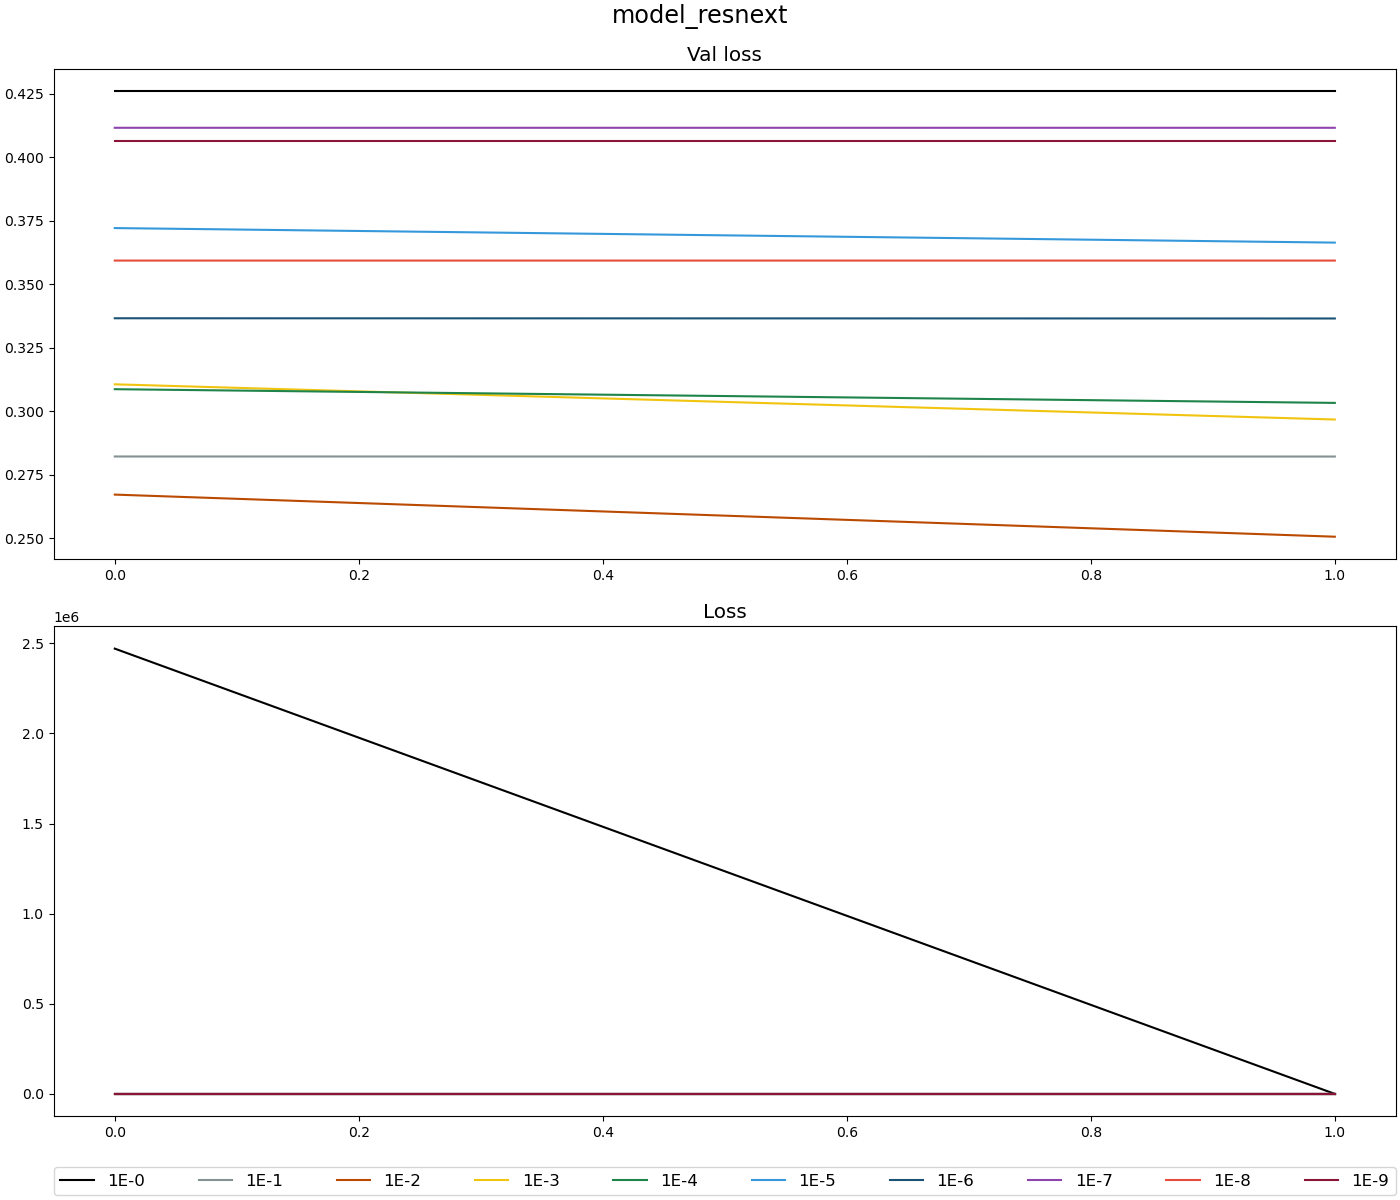
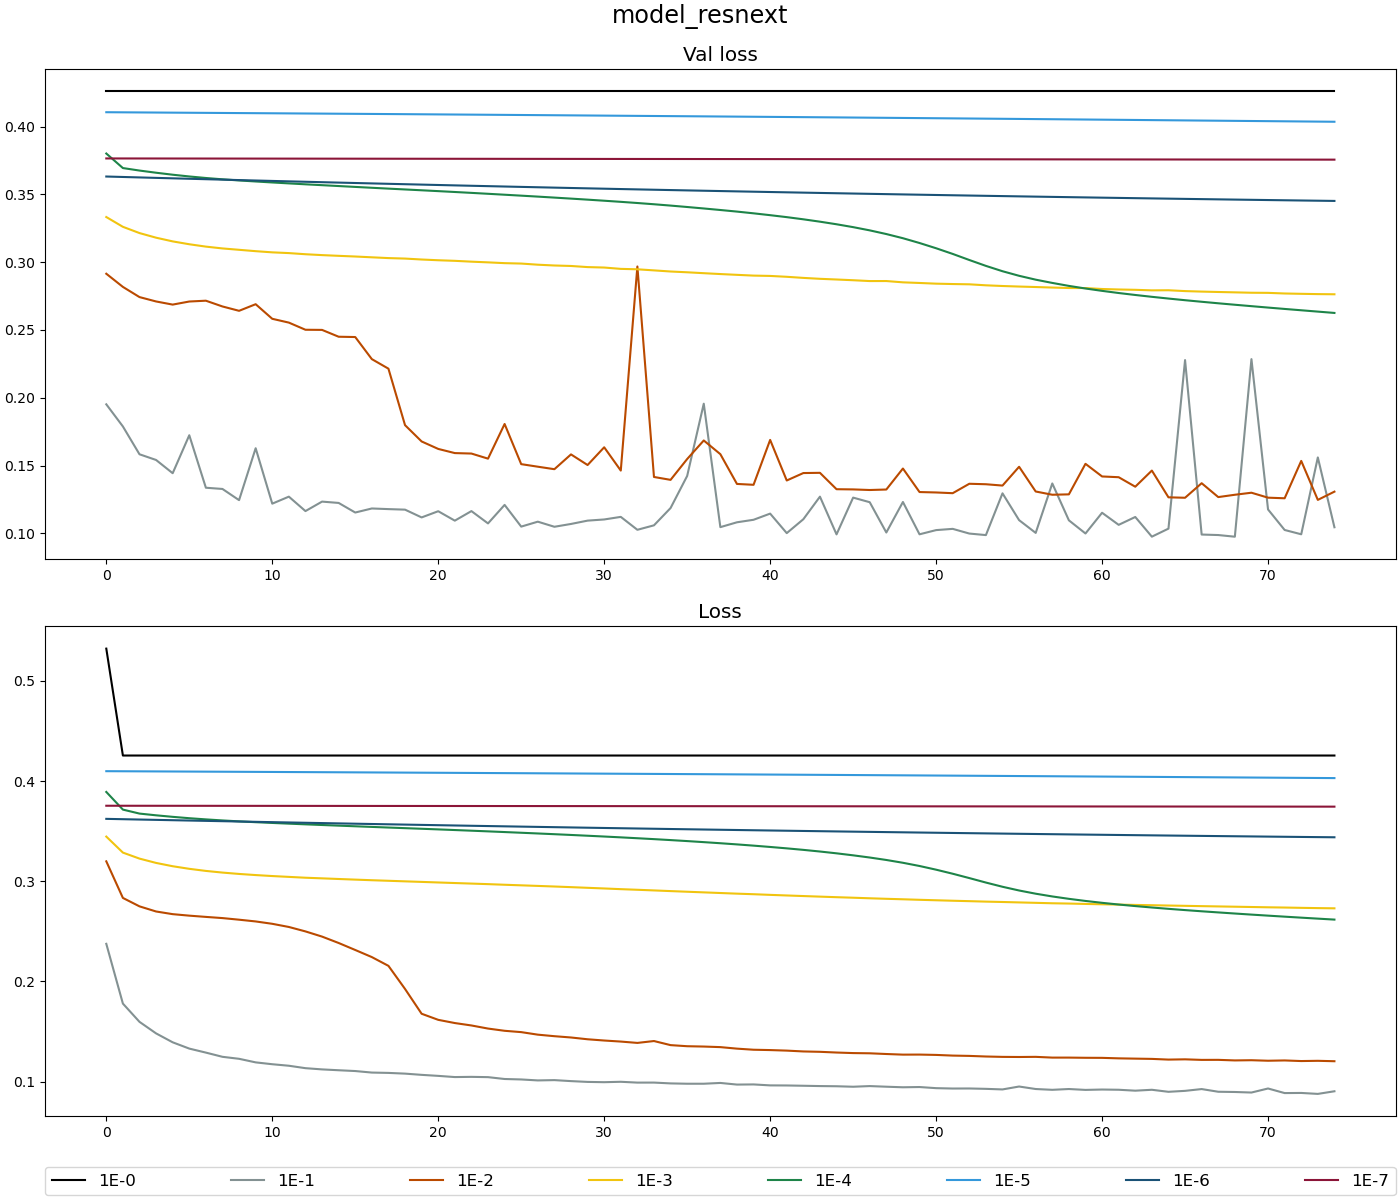
optimisation

diff --git a/aioi/models/models.py b/aioi/models/models.py
@@ -101,7 +101,7 @@ def model_resnet_40(input_shape, learning_rate):
     """
     Modèle avec 40 block resnet.
     """
-    return model_resnet(input_shape, learning_rate, 40)
+    return model_resnet(input_shape, learning_rate, 10)
 
 
 def model_compact_data(input_shape, learning_rate):
@@ -259,26 +259,26 @@ def define_models(x_train, y_train):
 
     # Learning rate à appliquer à chaque modèle
     learning_rates = [1E-0, 1E-1, 1E-2, 1E-3, 1E-4,
-                      1E-5, 1E-6, 1E-7, 1E-8, 1E-9]
+                      1E-5, 1E-6, 1E-7]
 
     # Liste des modèles utilisés
-    list_model = [model_simple, model_resnet_10, model_resnet_40,
-                  model_compact_data, model_scatter_data, model_inception,
-                  model_resnext]
+    list_model = [model_simple, model_resnet_10, model_compact_data,
+                  model_scatter_data, model_inception, model_resnext]
 
     fit_out = {}
 
     for model in list_model:
         fit_out[model.__name__] = []
         print("\n#####\n{}\n#####".format(model.__name__))
-        time.sleep(60)
+        time.sleep(30)
         for lr in learning_rates:
             check(learning_rates.index(lr))
-            time.sleep(5)
+            time.sleep(3)
             mdl = model(input_shape, lr)
-            fit = mdl.fit(x=x_train, y=y_train, epochs=45, batch_size=10,
+            fit = mdl.fit(x=x_train, y=y_train, epochs=75, batch_size=10,
                           verbose=1, validation_split=0.2)
             fit_out[model.__name__].append(fit)
+            tf.keras.backend.clear_session()
 
     return fit_out
 

diff --git a/aioi/graphique/plot.py b/aioi/graphique/plot.py
@@ -20,10 +20,10 @@ def summarize_learning_rate(fit_out):
             loss.append(fit.history['loss'])
 
         label = ['1E-0', '1E-1', '1E-2', '1E-3', '1E-4',
-                 '1E-5', '1E-6', '1E-7', '1E-8', '1E-9']
+                 '1E-5', '1E-6', '1E-7']
         title = ['Val loss', 'Loss']
         color = ['black', '#839192', '#BA4A00', '#F1C40F', '#1E8449',
-                 '#3498DB', '#1A5276', '#8E44AD', '#E74C3C', '#8b1538']
+                 '#3498DB', '#1A5276', '#8b1538']
 
         fig, axs = plt.subplots(2, 1, figsize=(14,12), constrained_layout=True)
 
